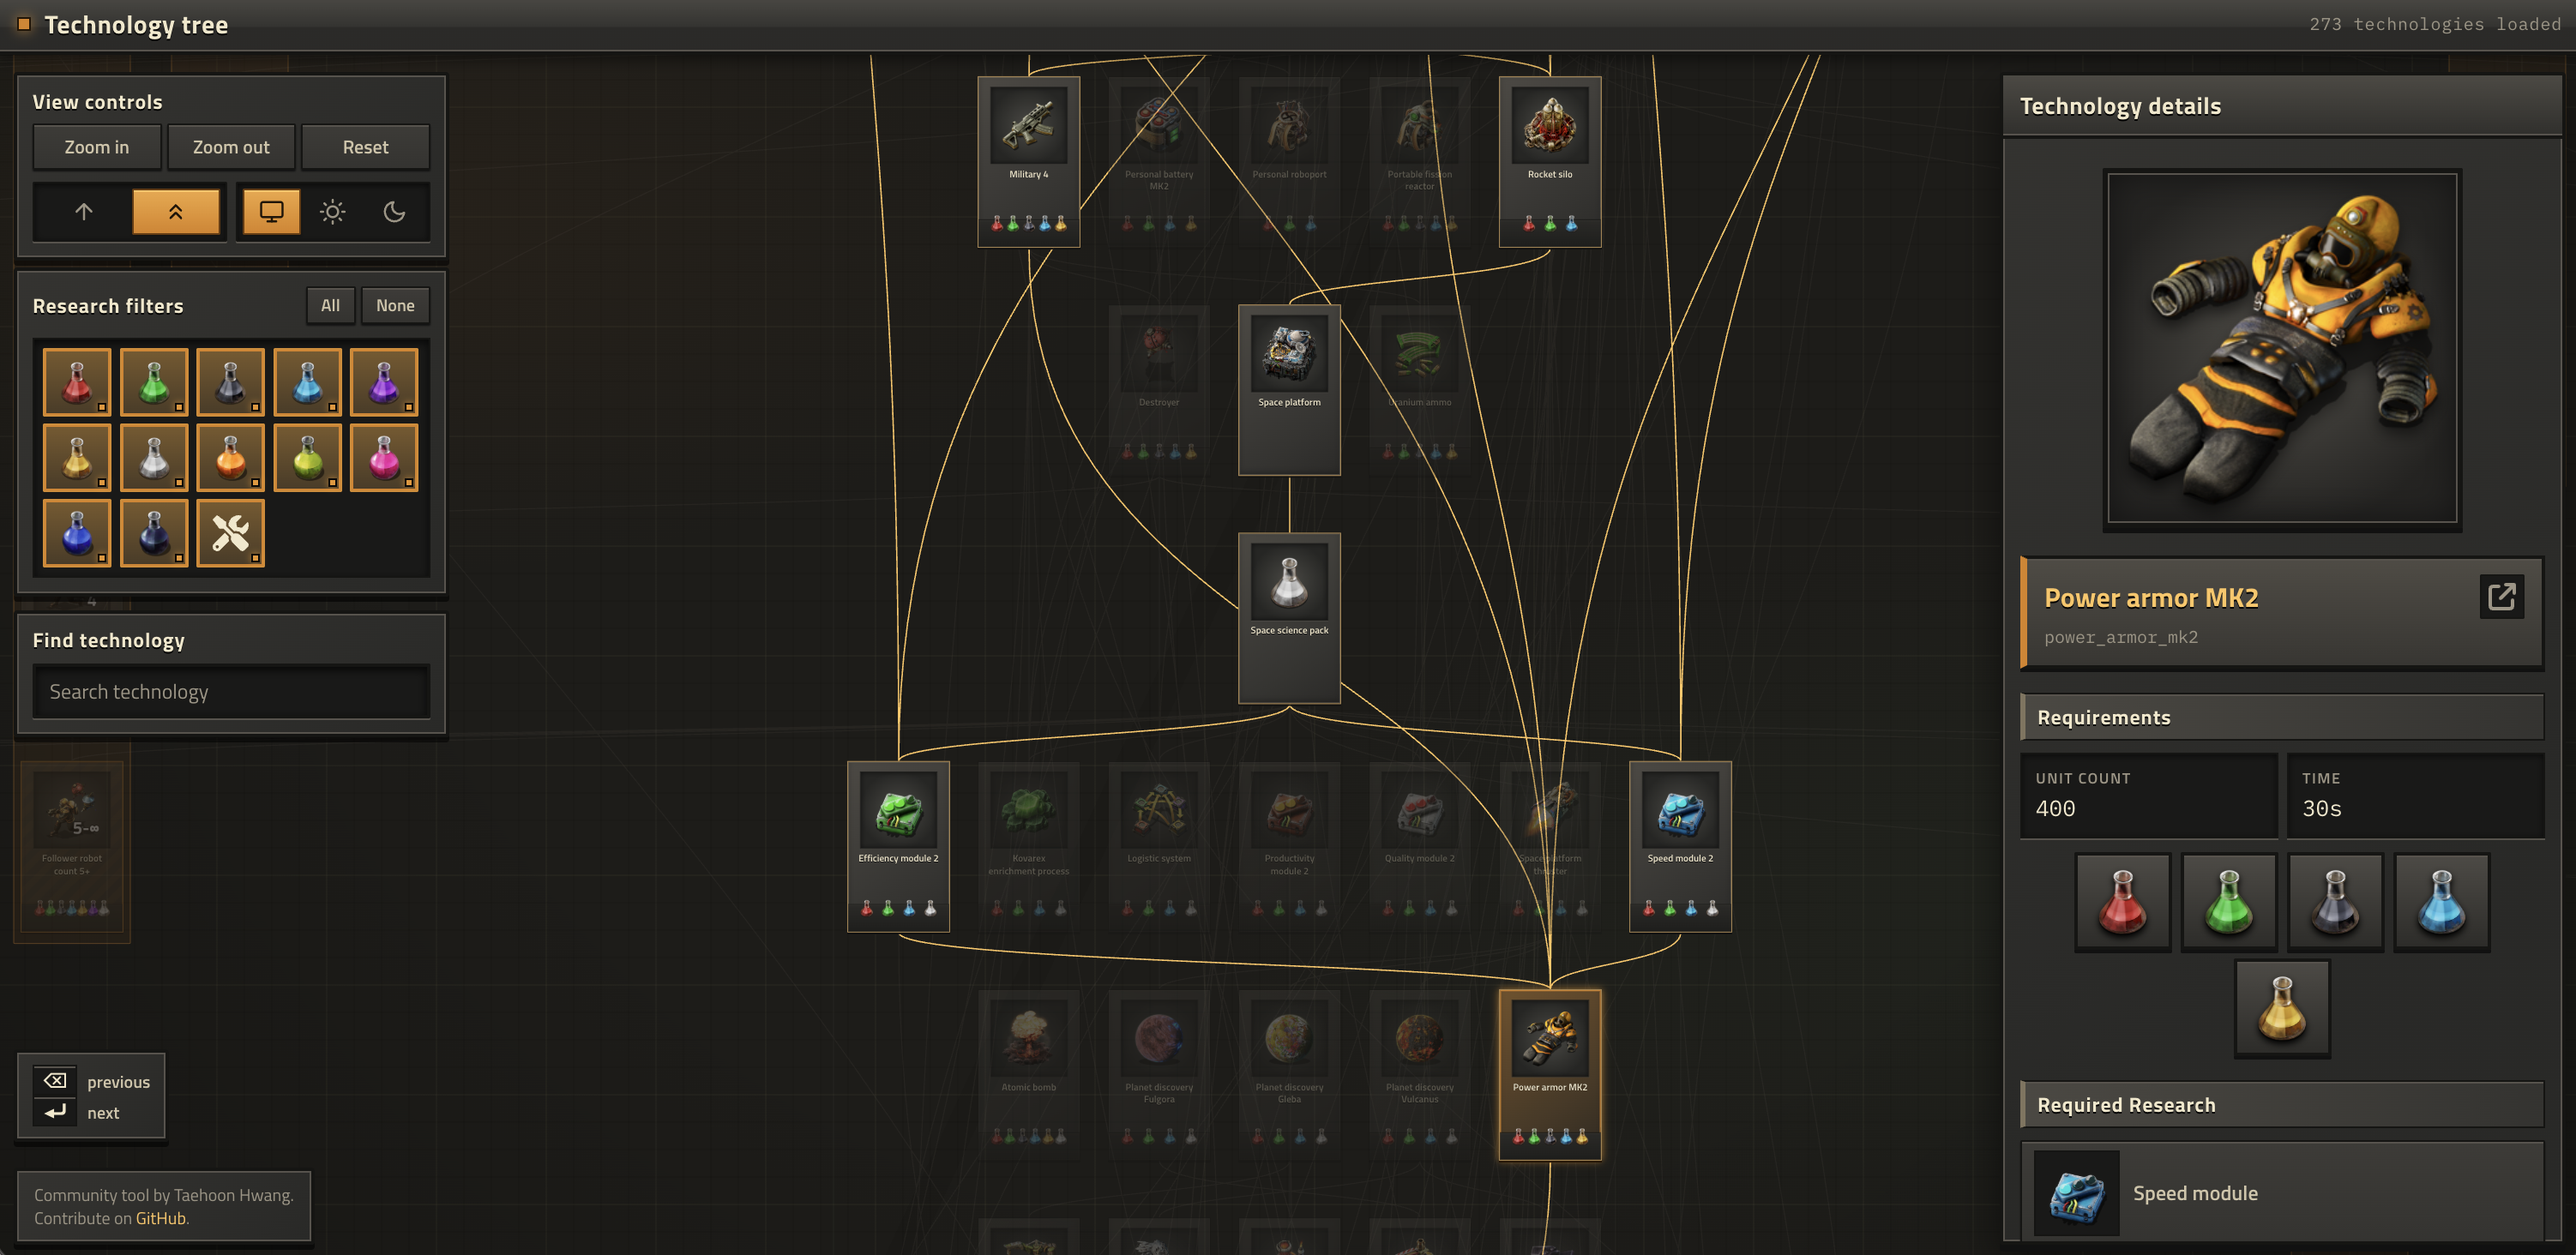
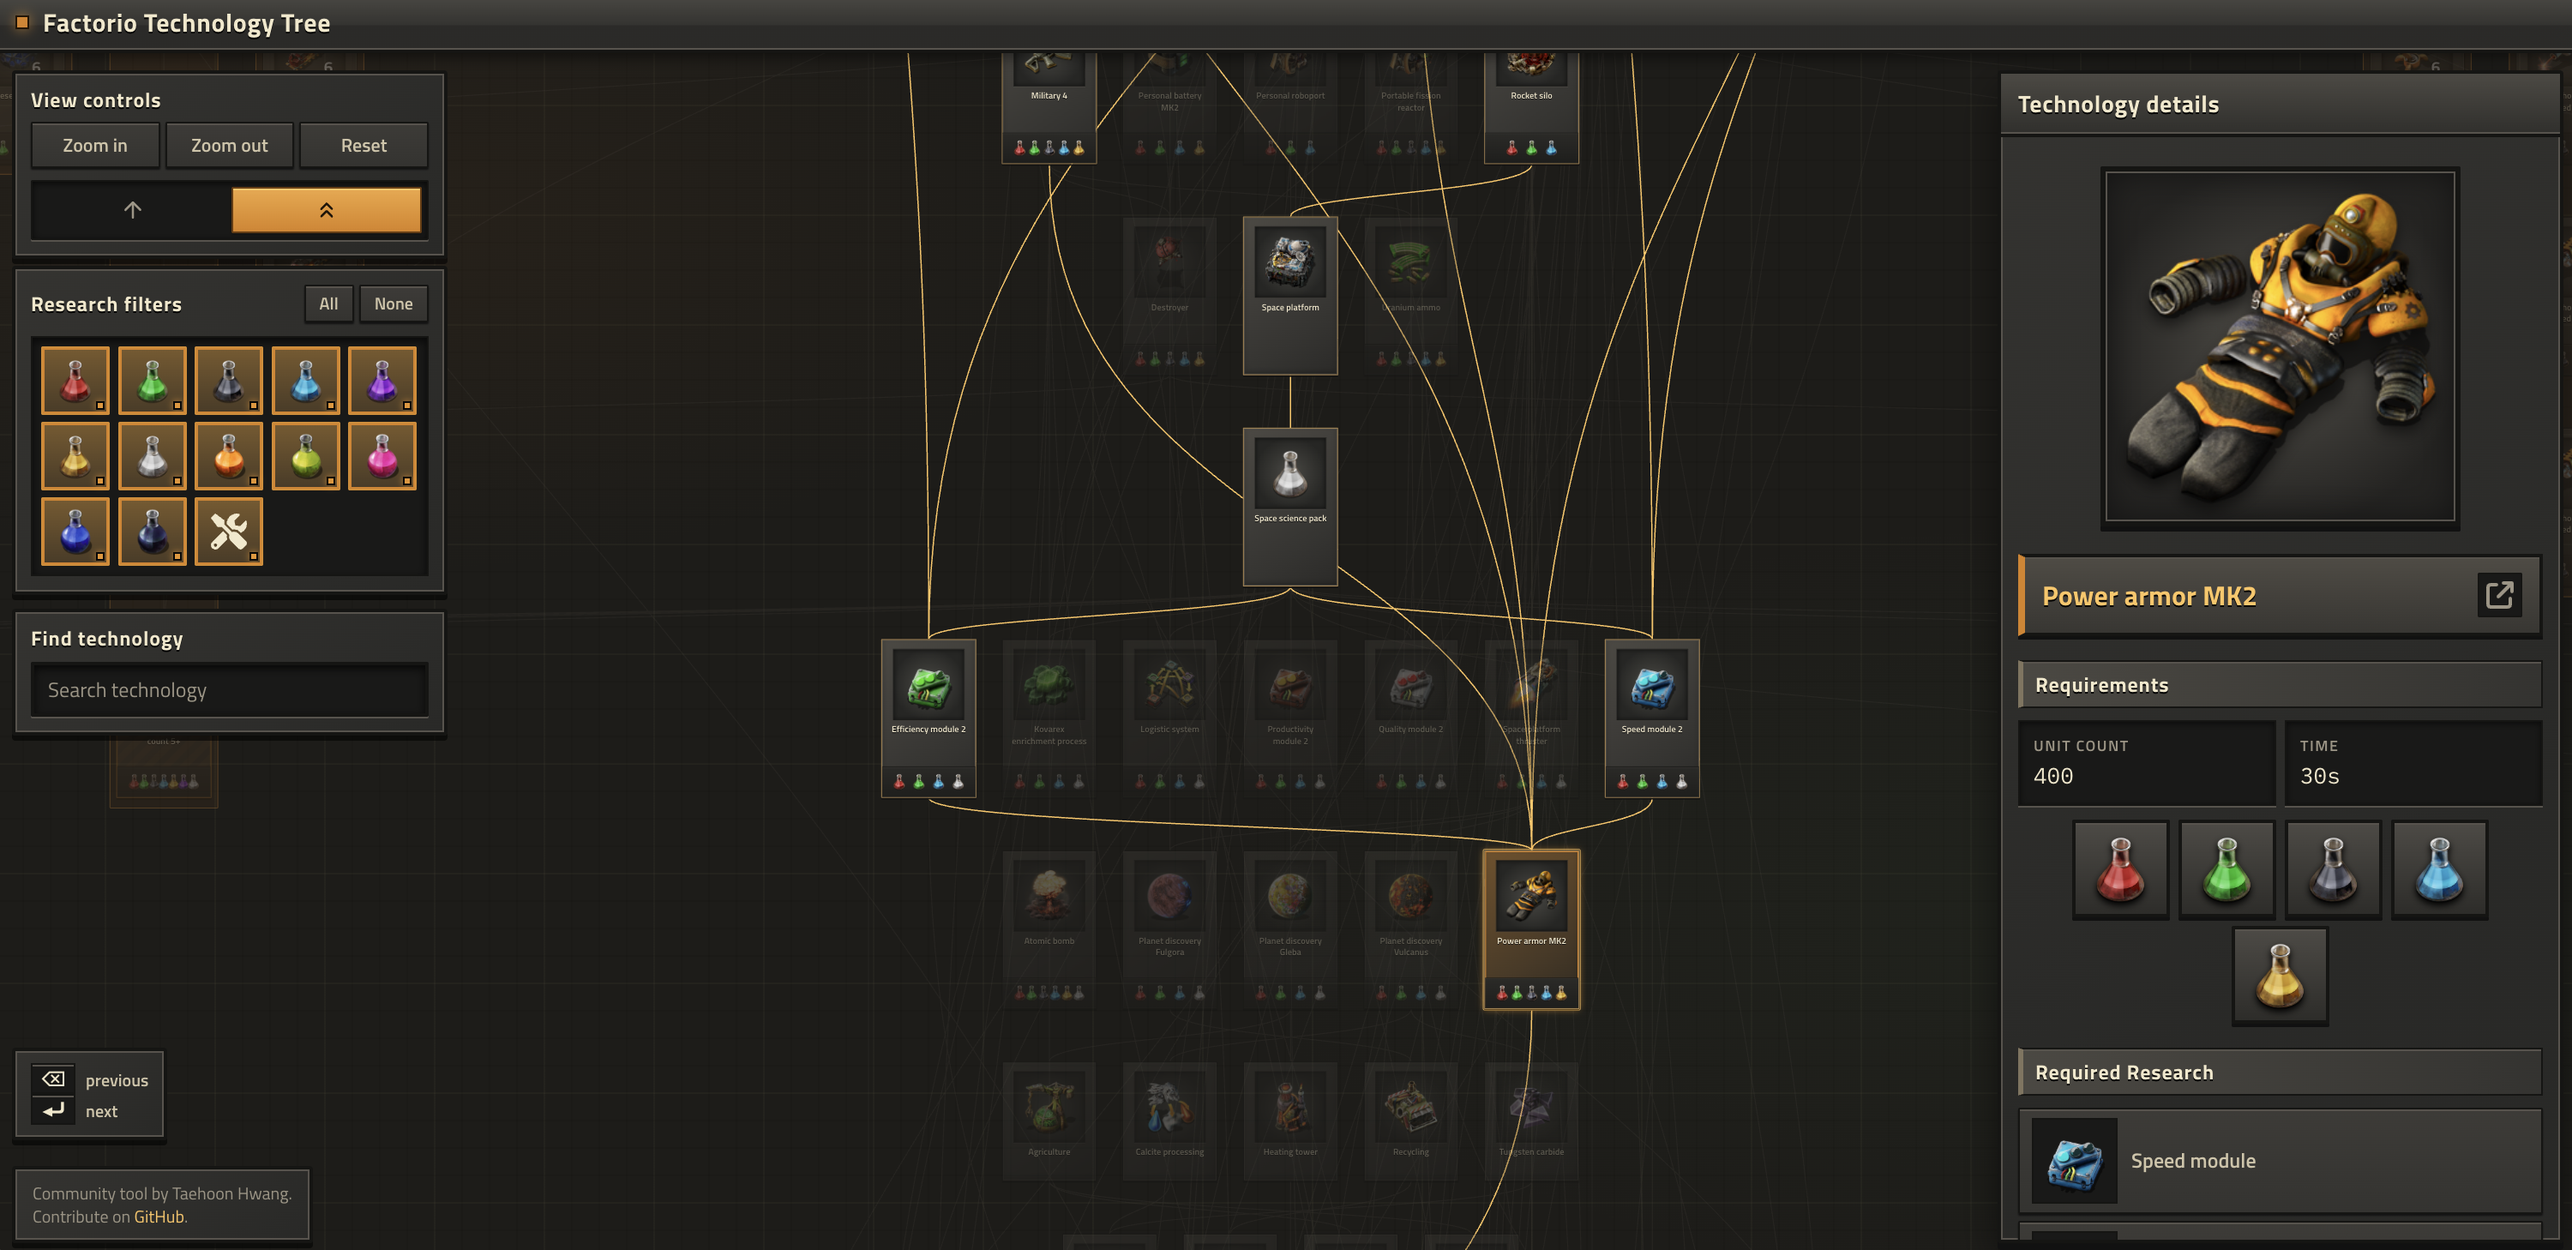
Finalize tech tree release

diff --git a/factorio-tech-tree/app/components/tech-graph/graph-details.tsx b/factorio-tech-tree/app/components/tech-graph/graph-details.tsx
@@ -1,3 +1,4 @@
+import Image from "next/image";
 import type { GraphNode } from "../../lib/tech-tree/types";
 import type { GraphSelection } from "../../lib/tech-graph/types";
 import { science_pack_name_map } from "../../lib/tech-graph/constants";
@@ -32,9 +33,12 @@ export default function GraphDetails({
             {selection.mode === "node" && selected_node && (
                 <div className="details-block">
                     <div className="details-selected-icon">
-                        <img
+                        <Image
                             src={get_node_icon_path(selected_node)}
                             alt={format_title(selected_node.title)}
+                            width={190}
+                            height={190}
+                            unoptimized
                             loading="lazy"
                             draggable={false}
                         />
@@ -96,9 +100,12 @@ export default function GraphDetails({
                                                 aria-label={`Open ${pack.name} research`}
                                                 title={`Open ${pack.name} research`}
                                             >
-                                                <img
+                                                <Image
                                                     src={`/data/tech_images/${internal_name}.png`}
                                                     alt={pack.name}
+                                                    width={43}
+                                                    height={43}
+                                                    unoptimized
                                                     loading="lazy"
                                                     draggable={false}
                                                 />
@@ -131,9 +138,12 @@ export default function GraphDetails({
                                         }}
                                     >
                                         <span className="details-link-icon">
-                                            <img
+                                            <Image
                                                 src={get_node_icon_path(node)}
                                                 alt={format_title(node.title)}
+                                                width={40}
+                                                height={40}
+                                                unoptimized
                                                 loading="lazy"
                                                 draggable={false}
                                             />
@@ -162,9 +172,12 @@ export default function GraphDetails({
                                         }}
                                     >
                                         <span className="details-link-icon">
-                                            <img
+                                            <Image
                                                 src={get_node_icon_path(node)}
                                                 alt={format_title(node.title)}
+                                                width={40}
+                                                height={40}
+                                                unoptimized
                                                 loading="lazy"
                                                 draggable={false}
                                             />

diff --git a/factorio-tech-tree/app/components/tech-graph/graph-canvas.tsx b/factorio-tech-tree/app/components/tech-graph/graph-canvas.tsx
@@ -1,5 +1,6 @@
 import { memo, useMemo } from "react";
 import type { CSSProperties, PointerEvent, RefObject } from "react";
+import Image from "next/image";
 import { FaTools } from "react-icons/fa";
 
 import DepthToggle from "../depth-toggle";
@@ -130,9 +131,12 @@ const GraphNodeButton = memo(function GraphNodeButton({
             }}
         >
             <div className="graph-node-icon">
-                <img
+                <Image
                     src={get_node_icon_path(node)}
                     alt={format_title(node.title)}
+                    width={168}
+                    height={168}
+                    unoptimized
                     loading="lazy"
                     decoding="async"
                     draggable={false}
@@ -143,9 +147,12 @@ const GraphNodeButton = memo(function GraphNodeButton({
                 <div className="graph-node-science" style={science_style}>
                     {science_icons.map((pack) => (
                         <div key={pack.internal_name} className="graph-node-science-pack">
-                            <img
+                            <Image
                                 src={`/data/tech_images/${pack.internal_name}.png`}
                                 alt={pack.name}
+                                width={56}
+                                height={56}
+                                unoptimized
                                 loading="lazy"
                                 decoding="async"
                                 draggable={false}
@@ -276,9 +283,12 @@ export default function GraphCanvas({
                                         on_toggle_filter(filter.id);
                                     }}
                                 >
-                                    <img
+                                    <Image
                                         src={filter.icon_path}
                                         alt={filter.label}
+                                        width={28}
+                                        height={28}
+                                        unoptimized
                                         loading="lazy"
                                         decoding="async"
                                         draggable={false}
@@ -332,9 +342,12 @@ export default function GraphCanvas({
                                         }}
                                     >
                                         <span className="graph-filter-result-icon">
-                                            <img
+                                            <Image
                                                 src={get_node_icon_path(node)}
                                                 alt={format_title(node.title)}
+                                                width={26}
+                                                height={26}
+                                                unoptimized
                                                 loading="lazy"
                                                 decoding="async"
                                                 draggable={false}

diff --git a/factorio-tech-tree/app/hooks/use_pan_zoom.ts b/factorio-tech-tree/app/hooks/use_pan_zoom.ts
@@ -35,11 +35,9 @@ type UsePanZoomResult = {
 };
 
 function constrain_axis(position: number, content_size: number, viewport_size: number) {
-    const boundary = Math.min(pan_boundary, viewport_size * 0.2);
-    if (content_size <= viewport_size - boundary * 2) {
-        return (viewport_size - content_size) / 2;
-    }
-    return clamp(position, viewport_size - content_size - boundary, boundary);
+    const boundary = Math.min(pan_boundary, viewport_size * 0.4);
+    const opposite_edge = viewport_size - content_size - boundary;
+    return clamp(position, Math.min(boundary, opposite_edge), Math.max(boundary, opposite_edge));
 }
 
 /**

diff --git a/factorio-tech-tree/app/lib/tech-graph/constants.ts b/factorio-tech-tree/app/lib/tech-graph/constants.ts
@@ -2,9 +2,9 @@ export const node_width = 300;
 export const node_gap_x = 80;
 export const node_gap_y = 165;
 export const canvas_padding = 80;
-export const min_zoom = 0.15;
-export const max_zoom = 2.5;
-export const pan_boundary = 160;
+export const min_zoom = 0.1;
+export const max_zoom = 1.5;
+export const pan_boundary = 400;
 export const node_padding_top = 28;
 export const node_padding_bottom = 40;
 export const node_padding_x = 56;
